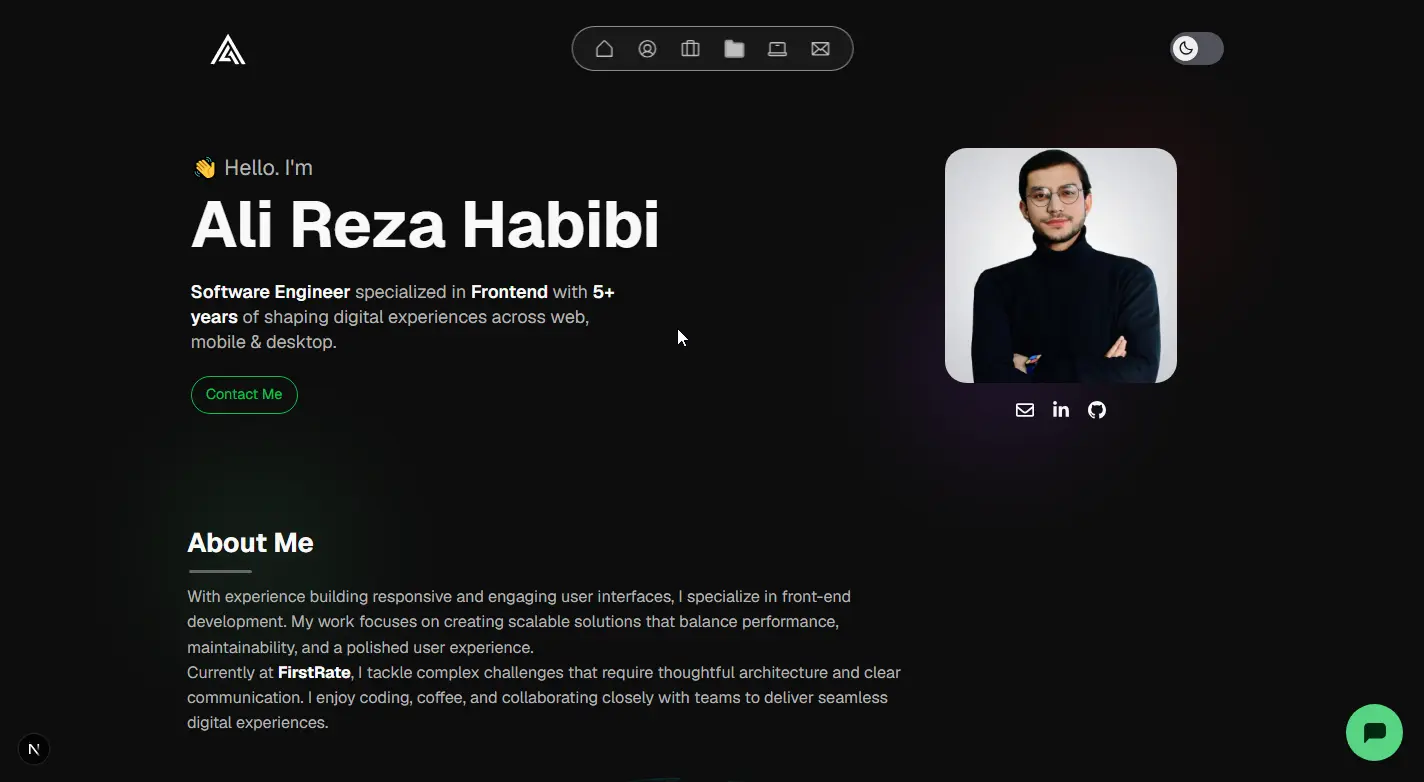
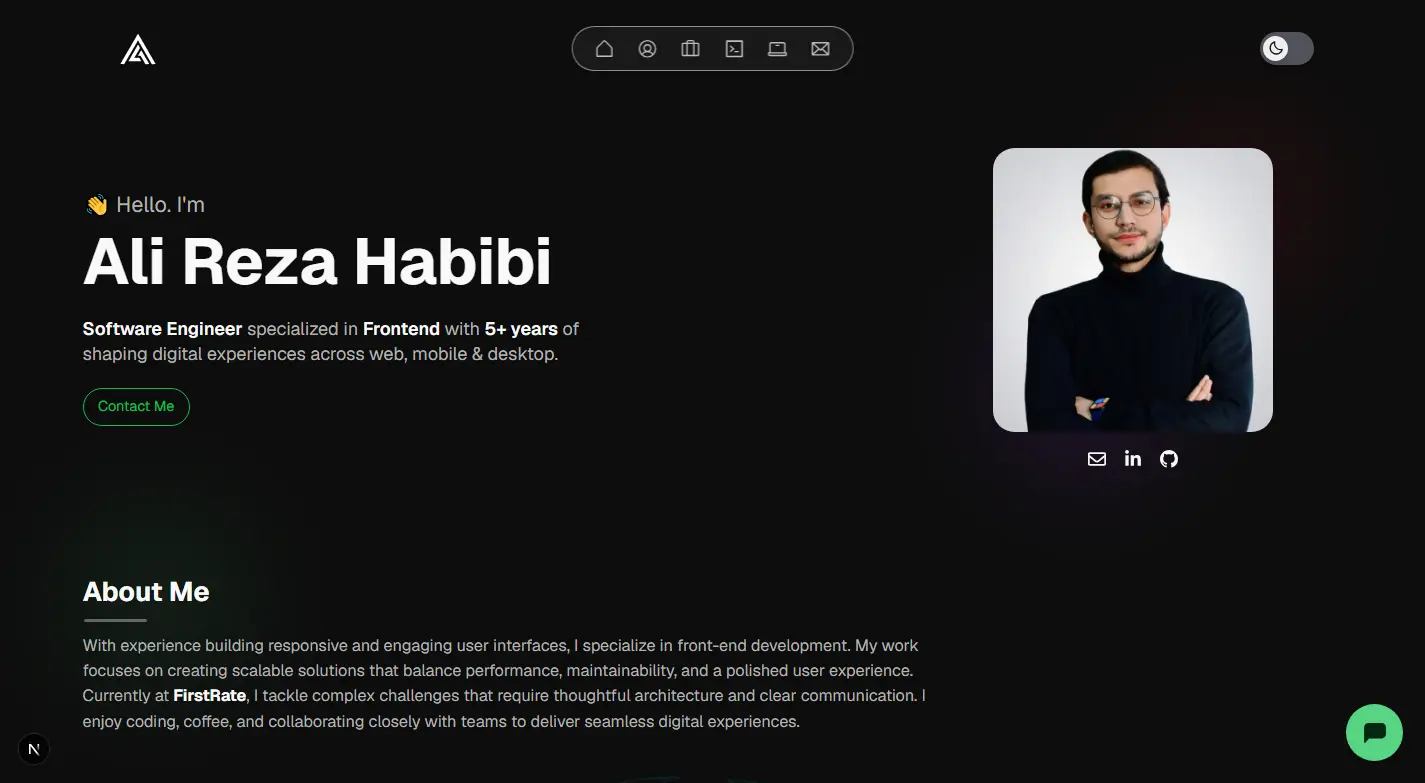
Complete Projects Section

diff --git a/src/data/projects.js b/src/data/projects.js
@@ -12,7 +12,7 @@ export const projects = [
     description:
       "A wallet to manage your personal income, expenses, and budgets.",
     image: "/images/projects/hesabi.webp",
-    technologies: ["Next.js", "JavaScript", "Tailwind", "TursoDB"],
+    technologies: ["Next.js", "Tailwind", "SQLite"],
     liveUrl: "https://hesabiapp.vercel.app",
     githubUrl: "https://github.com/shahreyarhabibi/hesabi",
     featured: true,
@@ -25,8 +25,8 @@ export const projects = [
       "A personal portfolio showcasing projects and skills with dark/light mode support.",
     image: "/images/projects/portfolio.webp",
     technologies: ["Next.js", "Tailwind", "Framer Motion"],
-    liveUrl: "https://example.com",
-    githubUrl: "https://github.com/username/project",
+    liveUrl: "https://ahabibi.vercel.app",
+    githubUrl: "https://github.com/shahreyarhabibi/portfolio-next.js",
     featured: true,
   },
 
@@ -36,46 +36,46 @@ export const projects = [
     description:
       "A simple and efficient system to manage patients, appointments, staff, and billing in hospitals or clinics.",
     image: "/images/projects/hospital.webp",
-    technologies: ["CodeIgniter", "Bootstrap", "Chart.js"],
+    technologies: ["PHP", "Bootstrap", "Chart.js"],
     liveUrl: "https://habibihospital.great-site.net",
     githubUrl:
       "https://github.com/shahreyarhabibi/-Habibi-Hospital-Management-System",
     featured: false,
   },
 
-  {
-    id: 4,
-    title: "MOWJ Technologies",
-    description:
-      "A full-service digital agency website delivering marketing, graphic design, and modern web development solutions.",
-    image: "/images/projects/taskapp.webp",
-    technologies: ["Wordpress", "Elementor", "PHP", "MySQL"],
-    liveUrl: "https:mowjglobal.com",
-    featured: false,
-  },
+  //   {
+  //     id: 4,
+  //     title: "MOWJ Technologies",
+  //     description:
+  //       "A full-service digital agency website delivering marketing, graphic design, and modern web development solutions.",
+  //     image: "/images/projects/taskapp.webp",
+  //     technologies: ["Wordpress", "Elementor", "PHP", "MySQL"],
+  //     liveUrl: "https:mowjglobal.com",
+  //     featured: false,
+  //   },
 
-  {
-    id: 5,
-    title: "Mobile Fitness App",
-    description:
-      "Cross-platform fitness tracking app with workout plans and progress analytics.",
-    image: "/images/projects/fitness.webp",
-    technologies: ["Flutter", "Firebase", "Dart"],
-    liveUrl: "",
-    githubUrl: "https://github.com/username/project",
-    featured: false,
-  },
-  {
-    id: 6,
-    title: "Blog CMS",
-    description:
-      "Custom content management system with markdown support and SEO optimization.",
-    image: "/images/projects/blog.webp",
-    technologies: ["WordPress", "PHP", "MySQL"],
-    liveUrl: "https://example.com",
-    githubUrl: "",
-    featured: false,
-  },
+  //   {
+  //     id: 5,
+  //     title: "Mobile Fitness App",
+  //     description:
+  //       "Cross-platform fitness tracking app with workout plans and progress analytics.",
+  //     image: "/images/projects/fitness.webp",
+  //     technologies: ["Flutter", "Firebase", "Dart"],
+  //     liveUrl: "",
+  //     githubUrl: "https://github.com/username/project",
+  //     featured: false,
+  //   },
+  //   {
+  //     id: 6,
+  //     title: "Blog CMS",
+  //     description:
+  //       "Custom content management system with markdown support and SEO optimization.",
+  //     image: "/images/projects/blog.webp",
+  //     technologies: ["WordPress", "PHP", "MySQL"],
+  //     liveUrl: "https://example.com",
+  //     githubUrl: "",
+  //     featured: false,
+  //   },
 ];
 
 // Get unique technologies for filter buttons

diff --git a/src/components/Header/Header.jsx b/src/components/Header/Header.jsx
@@ -10,12 +10,12 @@
 
 "use client";
 
+import { AiOutlineCode } from "react-icons/ai";
 import { useContext } from "react";
 import Image from "next/image";
 import { BiSun, BiMoon } from "react-icons/bi";
 import { ThemeContext } from "@/context/ThemeContext";
 import NavIcons from "./NavIcons";
-import { FiFolder } from "react-icons/fi";
 
 // Icon imports - using @/icons alias
 import HomeIcon from "@/icons/HomeIcon";
@@ -28,7 +28,7 @@ export default function Header() {
   const { isLight, toggleTheme } = useContext(ThemeContext);
 
   return (
-    <header className="md:w-300 md:m-auto z-10">
+    <header className="md:w-350 md:m-auto z-10">
       <nav className="flex justify-center md:justify-between gap-50 items-center px-8 mt-6">
         {/* Logo - using next/image */}
         <Image
@@ -51,7 +51,8 @@ export default function Header() {
             link="#experience"
             Icon={ExperienceIcon}
           />
-          <NavIcons title="Projects" link="#projects" Icon={FiFolder} />
+          <NavIcons title="Projects" link="#projects" Icon={AiOutlineCode} />
+
           <NavIcons title="Services" link="#services" Icon={ServicesIcon} />
           <NavIcons title="Contact Me" link="#contact" Icon={ContactIcon} />
         </ul>

diff --git a/src/components/Projects/ProjectsSection.jsx b/src/components/Projects/ProjectsSection.jsx
@@ -17,6 +17,7 @@ import { ThemeContext } from "@/context/ThemeContext";
 import { projects, allTechnologies } from "@/data/projects";
 import SectionTitles from "../SectionsTitle";
 import ProjectCard from "./ProjectCard";
+import { FiGithub } from "react-icons/fi";
 
 export default function ProjectsSection() {
   const { isLight } = useContext(ThemeContext);
@@ -34,7 +35,7 @@ export default function ProjectsSection() {
   return (
     <section
       id="projects"
-      className="flex flex-col md:w-290 m-auto gap-8 pt-20 pb-20"
+      className="flex flex-col md:w-350 m-auto gap-8 pt-20 pb-20"
     >
       {/* Section Title */}
       <SectionTitles title="My Projects" bg="bg-blue-500" />
@@ -55,7 +56,7 @@ export default function ProjectsSection() {
           All
         </button>
 
-        {allTechnologies.slice(0, 6).map((tech) => (
+        {allTechnologies.slice(0, 8).map((tech) => (
           <button
             key={tech}
             onClick={() => setActiveFilter(tech)}
@@ -112,6 +113,3 @@ export default function ProjectsSection() {
     </section>
   );
 }
-
-// Don't forget to import FiGithub at the top!
-import { FiGithub } from "react-icons/fi";

diff --git a/src/components/AboutSection.jsx b/src/components/AboutSection.jsx
@@ -18,15 +18,15 @@ export default function AboutSection() {
   return (
     <section
       id="about"
-      className="flex flex-col md:mt-10 md:w-290 m-auto items-center gap-10 md:gap-20 grow pt-20 pb-20"
+      className="flex flex-col md:mt-10 md:w-350 m-auto items-center gap-10 md:gap-20 grow pt-20 pb-20"
     >
-      <div className="md:w-200 md:mr-92">
+      <div className="md:w-235 md:mr-115">
         <SectionTitles
           title="About Me"
           underlinewidth="5%"
           bg="bg-(--primary-400)"
         />
-        <p className="text-lg">
+        <p className="text-lg ">
           With experience building responsive and engaging user interfaces, I
           specialize in front-end development. My work focuses on creating
           scalable solutions that balance performance, maintainability, and a

diff --git a/src/components/Footer.jsx b/src/components/Footer.jsx
@@ -8,7 +8,7 @@ import { BsGithub } from "react-icons/bs";
 
 export default function Footer() {
   return (
-    <footer className="flex m-auto md:flex-row flex-col items-center gap-5 md:mb-2 mb-30 justify-between md:w-290 h-10">
+    <footer className="flex m-auto md:flex-row flex-col items-center gap-5 md:mb-5 mb-30 justify-between md:w-350 h-10">
       <p>
         © {new Date().getFullYear()} |{" "}
         <span className="text-(--text)">Ali Reza Habibi</span> | All Rights

diff --git a/src/components/HeroSection.jsx b/src/components/HeroSection.jsx
@@ -22,7 +22,7 @@ export default function HeroSection() {
   return (
     <section
       id="#"
-      className="flex-col md:w-290 m-auto flex justify-between md:flex-row md:mt-20 mt-10 items-center md:gap-20 gap-10"
+      className="flex-col md:w-350 m-auto flex justify-between md:flex-row md:mt-20 mt-10 items-center md:gap-20 gap-10"
     >
       {/* Left Content */}
       <div className="flex items-start flex-col md:w-1/2 gap-6">

diff --git a/src/components/Services/ServicesSection.jsx b/src/components/Services/ServicesSection.jsx
@@ -16,7 +16,7 @@ export default function ServicesSection() {
   return (
     <section
       id="services"
-      className="flex flex-col md:w-290 m-auto justify-center md:gap-8 gap-5 grow pt-15 pb-20 scroll-mt-10 md:scroll-mt-0"
+      className="flex flex-col md:w-350 m-auto justify-center md:gap-8 gap-5 grow pt-15 pb-20 scroll-mt-10 md:scroll-mt-0"
     >
       <SectionTitles title="What i'm doing" bg="bg-(--primary)" />
 

diff --git a/src/components/ExperienceSection.jsx b/src/components/ExperienceSection.jsx
@@ -11,7 +11,7 @@ export default function ExperienceSection() {
   return (
     <section
       id="experience"
-      className="flex flex-col items-center pt-20 pb-20 md:w-290 m-auto grow"
+      className="flex flex-col items-center pt-20 pb-20 md:w-350 m-auto grow"
     >
       <div className="flex gap-10 md:gap-0 flex-col md:flex-row w-full">
         <div className="flex flex-col w-full md:w-1/2 gap-5">
